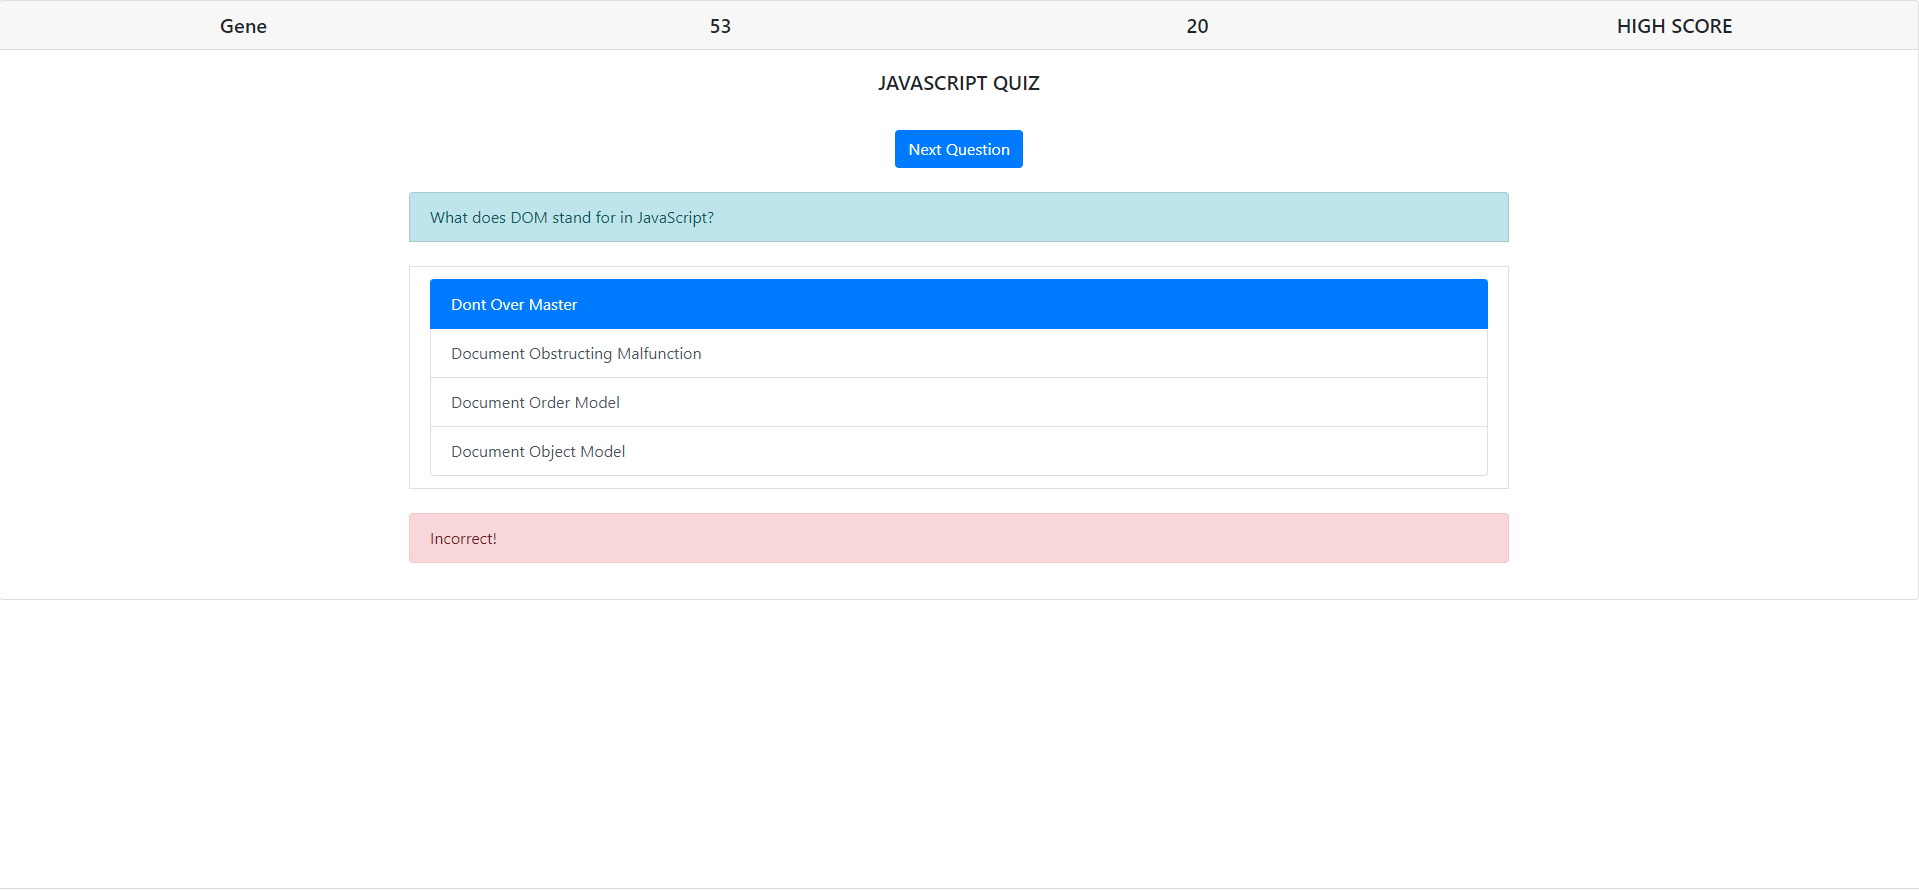
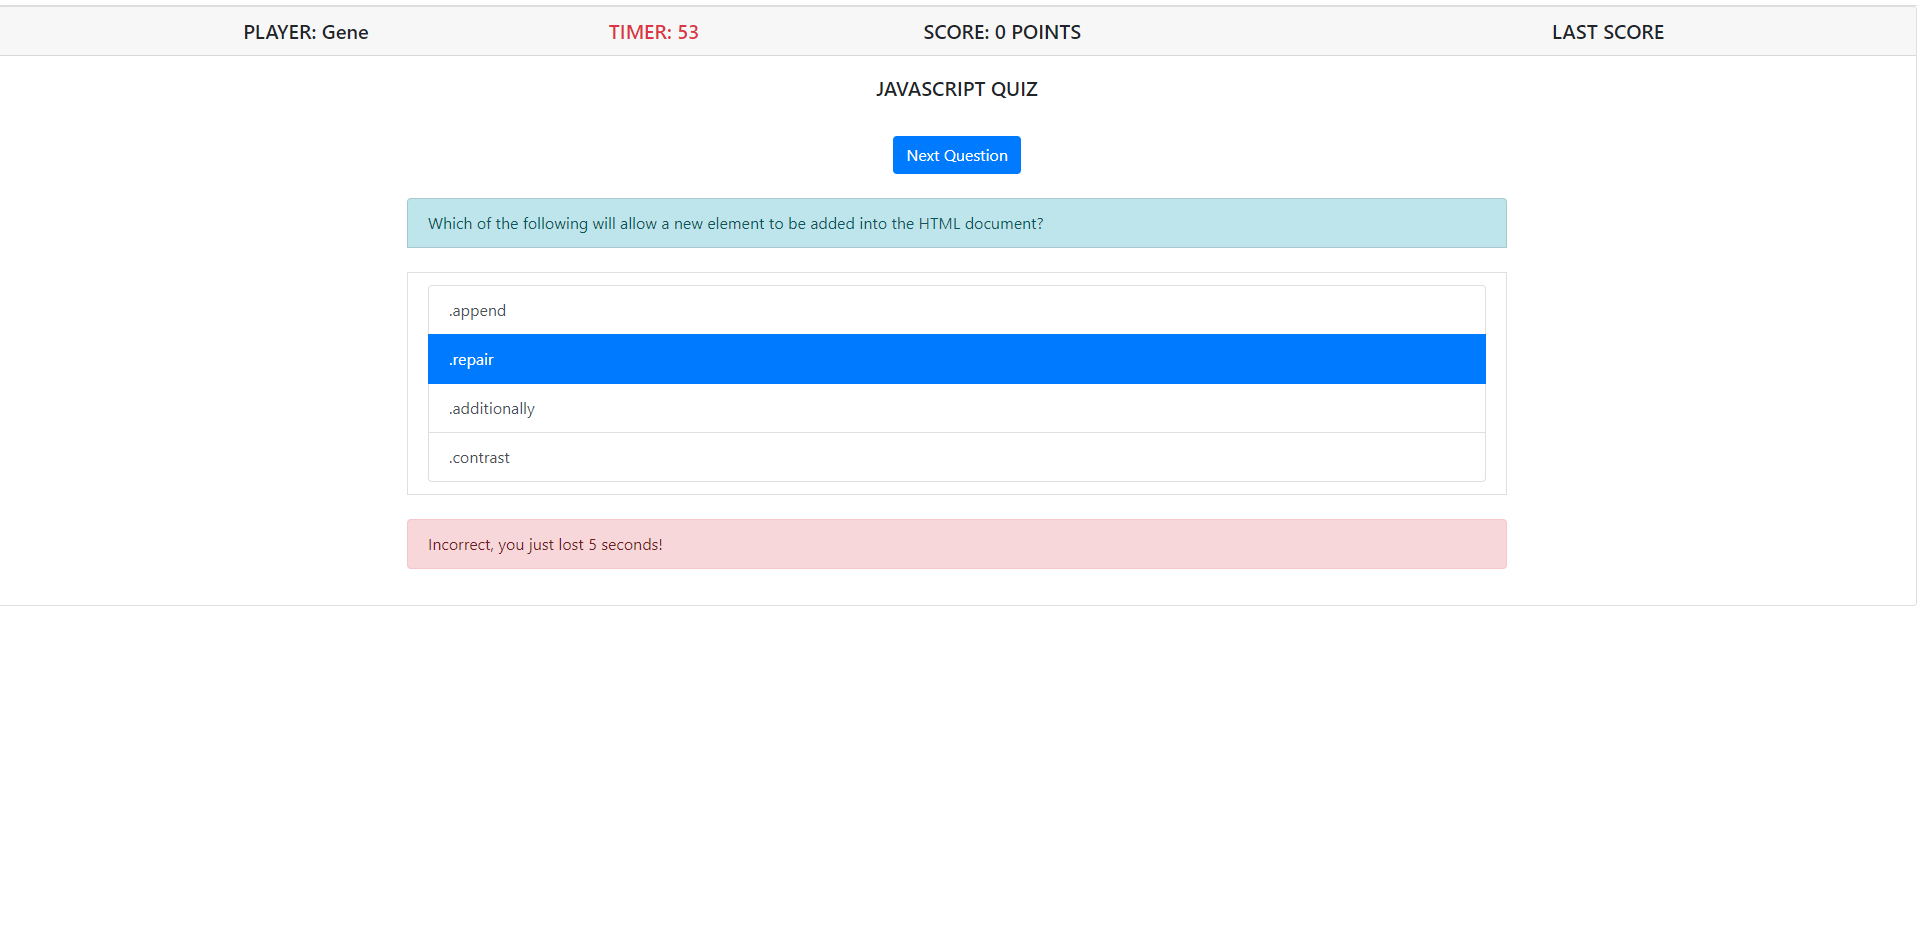
updated a screenshot- incorrect.png

diff --git a/script.js b/script.js
@@ -356,7 +356,7 @@ theTimer = function () {
 };
 screenTimer = function () {
     secondsLeft--;
-    outTimer.textContent = "Timer: " + secondsLeft;
+    outTimer.textContent = "TIMER: " + secondsLeft;
     outTimer.setAttribute("class", "text-danger")
     if (secondsLeft === 0) {
         clearInterval(timerInterval);

diff --git a/README.md b/README.md
@@ -16,7 +16,7 @@ Screenshot of the game when there is a correct answer:
 
 ![Correct Answer](https://github.com/einobaka/hw04-js-APIquiz-gt/blob/master//assets/correct.png)
 
-Screenshot of the game when there is an incorrect answer:
+Screenshot of the game when there is an incorrect answer, also indicating the user lost 5 seconds of time:
 
 ![Incorrect Answer](https://github.com/einobaka/hw04-js-APIquiz-gt/blob/master//assets/incorrect.png)
 
